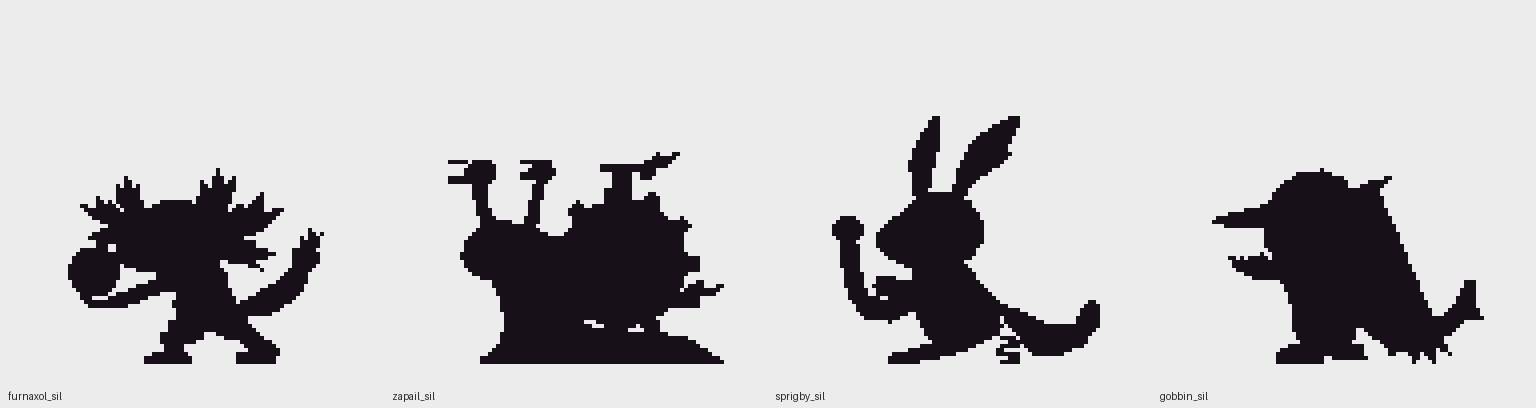
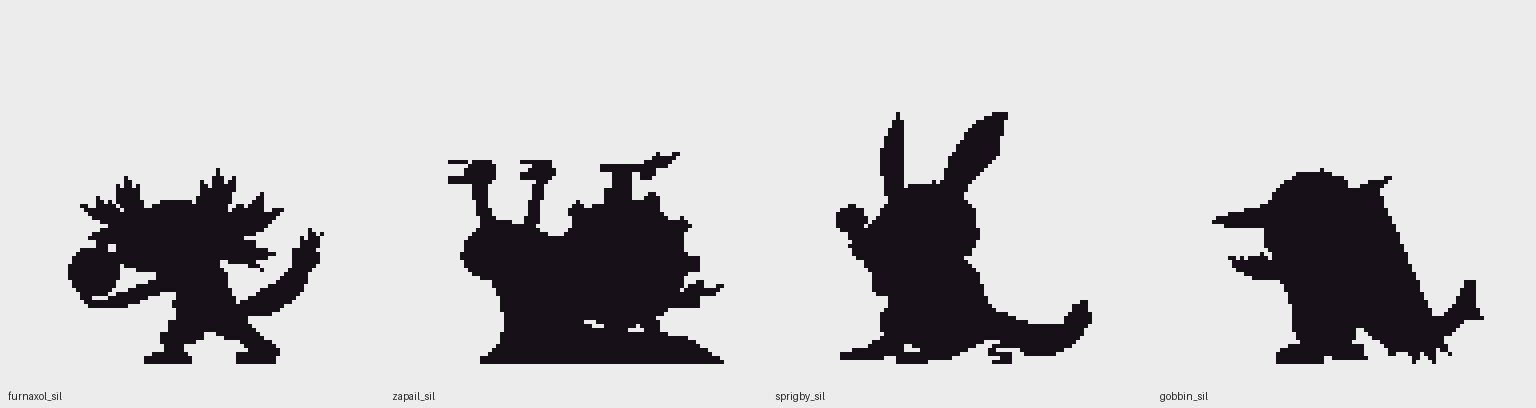
Sprigby silhouette: turn three-quarters to the viewer
Chest and face turned toward the viewer with the far ear and foot on
the left; arms now come off the chest (guard fist tucked, uppercut
across the face). Adds a contour view to judge the turn before colour.

Claude-Session: https://claude.ai/code/session_01NDaBcuNY8LLNS1rzT9Z9Co

diff --git a/art/creatures/sprigby.px.js b/art/creatures/sprigby.px.js
@@ -1,8 +1,9 @@
 // Sprigby (sprig + wallaby) — Plant starter, stage 1. 96x96 BW battle sprite, 3/4 front facing screen-left.
 // A tiny wallaby joey from Canopy. Its ears are two sprouting leaves, its heels are coiled
-// vine springs, and it can't stop bouncing. Battle pose: nervous but game, up on its toes
-// with the heel springs wound, one fist tucked in a guard while the other throws a
-// wobbly uppercut (the kickboxer it grows into), head leaning back from its own punch, ears pinned back, thick tail planted behind as a third leg.
+// vine springs, and it can't stop bouncing. Battle pose, turned three-quarters to the viewer:
+// nervous but game, up on its toes with the heel spring wound, the far fist tucked in a guard
+// against its chest while the near one throws a wobbly uppercut across it (the kickboxer it
+// grows into), thick tail planted behind as a third leg.
 //
 // Stages: silhouette (sprigby_sil). Process and rules: art/BW_STYLE.md; structure follows
 // furnaxol.px.js (parts are hand-placed shapes that overlap what they attach to).
@@ -17,20 +18,21 @@ const T = (pts) => pts.map((v, i) => (i % 2 ? 91 - (91 - v) * K : 48 + (v - 48) 
 
 // ---- parts, back to front. {s: polygon} | {ell: [cx, cy, rx, ry]} | {grid: [x, y, rows]} ("#" = in)
 const parts = [
-  // far ear: the same leaf turned away (narrower), more upright, a V of air between the ears
-  { g: "farEar", s: [34, 41, 33, 35, 32, 29, 34, 22, 38, 16, 41, 13, 42, 19, 41, 26, 39, 33, 38, 42] },
-  // tail: thick at the rump, down to the ground behind, tip curling up
-  { g: "tail", s: [56, 70, 66, 74, 76, 79, 84, 78, 87, 72, 91, 71, 92, 78, 87, 85, 78, 89, 70, 88, 64, 80] },
-  // far foot: toes just showing past the near one
-  { g: "farLeg", s: [40, 84, 48, 84, 46, 88, 30, 89, 30, 87] },
-  // body: small pear torso leaning forward
-  { g: "body", s: [34, 60, 42, 57, 50, 60, 56, 67, 59, 76, 56, 84, 46, 86, 38, 83, 34, 76, 32, 68] },
-  // near leg: big round haunch, short shin down-back to the lifted heel, long foot on its toes
-  { g: "leg", ell: [52, 75, 9, 8] },
-  { g: "leg", s: [48, 78, 56, 76, 62, 79, 59, 82] },
-  { g: "leg", s: [55, 79, 62, 79, 60, 82, 47, 88, 33, 91, 25, 91, 26, 88, 38, 86, 50, 81] },
-  // heel spring: a vine coil from the lifted heel to the ground, two and a half loops (output pixels)
-  { g: "spring", grid: [57, 84, `
+  // tail: behind the body, out to the right and down to the ground, tip curling up
+  { g: "tail", s: [52, 72, 62, 75, 72, 79, 80, 78, 84, 72, 88, 71, 89, 78, 84, 85, 76, 89, 68, 88, 60, 82, 54, 80] },
+  // far side (screen-left, further from the viewer): smaller haunch and a foot pointing
+  // down-left, partly hidden by the near leg
+  { g: "farLeg", ell: [30, 78, 7, 7] },
+  { g: "farLeg", s: [26, 80, 32, 82, 30, 88, 20, 90, 10, 90, 10, 88, 20, 85] },
+  // body: pear-shaped torso turned three-quarters to the viewer, chest and pouch facing out
+  { g: "body", s: [30, 58, 38, 55, 48, 57, 54, 63, 57, 72, 56, 81, 50, 87, 38, 88, 30, 84, 26, 76, 26, 66] },
+  // near side (screen-right, closer): big round haunch, shin back to the lifted heel, long
+  // foot running forward-left on its toes
+  { g: "leg", ell: [50, 77, 9, 8.5] },
+  { g: "leg", s: [47, 79, 55, 77, 61, 80, 57, 84] },
+  { g: "leg", s: [54, 79, 61, 80, 58, 83, 46, 89, 34, 91, 28, 91, 29, 88, 38, 86, 48, 82] },
+  // heel spring: a vine coil from the lifted heel to the ground (output pixels)
+  { g: "spring", grid: [55, 84, `
     .####.
     ...###
     .#####
@@ -38,18 +40,19 @@ const parts = [
     ######
     ...###
     .#####`] },
-  // head: big and round (a joey is mostly head), snout pushed forward at the target
-  { g: "head", s: [30, 43, 36, 38, 44, 37, 51, 40, 55, 46, 55, 53, 52, 58, 46, 61, 38, 62, 31, 61, 26, 58, 22, 55, 21, 52, 24, 48] },
-  // near ear: a big sprout leaf swept back from the crown: thin stem, wide middle, pointed
-  // tip, a bite-notch on its back edge
-  { g: "ear", s: [44, 41, 46, 35, 47, 30, 50, 24, 55, 19, 61, 15, 67, 13, 66, 18, 63, 24, 64, 26, 59, 30, 53, 34, 49, 39, 48, 43] },
-  // arms: the head leans back away from the punch. The far fist is tucked in a guard under
-  // the chin; the near arm throws an uppercut, elbow low in front of the chest, forearm
-  // driving straight up ahead of the snout, fist at eye height
-  { g: "farArm", s: [36, 70, 30, 70, 26, 68, 28, 64, 33, 65] },
-  { g: "farArm", ell: [25, 66.5, 4, 3.5] },
-  { g: "arm", s: [40, 68, 34, 74, 26, 78, 18, 77, 13, 70, 11, 60, 10, 52, 16, 52, 17, 60, 19, 69, 24, 71, 32, 66] },
-  { g: "arm", ell: [13, 49, 5, 4.5] },
+  // far ear: the same sprout leaf turned away (narrower), standing up on the left of the crown
+  { g: "farEar", s: [26, 42, 24, 35, 23, 28, 24, 21, 27, 15, 29, 12, 31, 18, 31, 26, 31, 34, 31, 42] },
+  // head: wide and round, turned three-quarters, muzzle pushing out toward the lower left
+  { g: "head", s: [26, 40, 32, 35, 40, 34, 48, 37, 53, 43, 54, 51, 51, 57, 44, 61, 36, 62, 28, 61, 21, 60, 15, 58, 13, 54, 16, 50, 21, 46] },
+  // near ear: the big sprout leaf, swept up and back from the right of the crown: thin stem,
+  // wide middle, pointed tip, a bite-notch on its back edge
+  { g: "ear", s: [41, 38, 43, 32, 45, 26, 49, 20, 54, 15, 60, 12, 63, 12, 62, 17, 60, 22, 61, 24, 57, 29, 52, 34, 48, 39, 46, 42] },
+  // arms come off the chest. The far fist is tucked in a guard against the chest under the
+  // chin; the near arm throws an uppercut across the chest, fist rising past the muzzle
+  { g: "farArm", s: [32, 60, 30, 66, 26, 68, 23, 66, 25, 62] },
+  { g: "farArm", ell: [24, 66, 4, 3.5] },
+  { g: "arm", s: [52, 64, 50, 72, 44, 76, 36, 76, 28, 72, 20, 63, 13, 51, 18, 48, 24, 59, 32, 68, 38, 70, 44, 68, 46, 62] },
+  { g: "arm", ell: [14, 46, 5, 4.5] },
 ]
 
 function inPoly(pts, x, y) {
@@ -73,4 +76,21 @@ const inPart = (p, x, y) => {
 // Stage 1: silhouette
 sprite("sprigby_sil", { w: 96, h: 96 }, (c) => {
   for (const p of parts) for (let y = 0; y < 96; y++) for (let x = 0; x < 96; x++) if (inPart(p, x, y)) c.px(x, y, "k")
+})
+
+// Silhouette with each part's contour drawn in, so the three-quarter turn and the arms across
+// the chest can be judged before colour
+sprite("sprigby_parts", { w: 96, h: 96 }, (c) => {
+  const own = new Int16Array(96 * 96).fill(-1)
+  parts.forEach((p, i) => { for (let y = 0; y < 96; y++) for (let x = 0; x < 96; x++) if (inPart(p, x, y)) own[y * 96 + x] = i })
+  const at = (x, y) => (x < 0 || y < 0 || x > 95 || y > 95 ? -1 : own[y * 96 + x])
+  for (let y = 0; y < 96; y++) for (let x = 0; x < 96; x++) {
+    const i = at(x, y)
+    if (i < 0) continue
+    const edge = [[1, 0], [-1, 0], [0, 1], [0, -1]].some(([dx, dy]) => {
+      const j = at(x + dx, y + dy)
+      return j < 0 || (j < i && parts[j].g !== parts[i].g)
+    })
+    c.px(x, y, edge ? "k" : "#9a94a8")
+  }
 })
